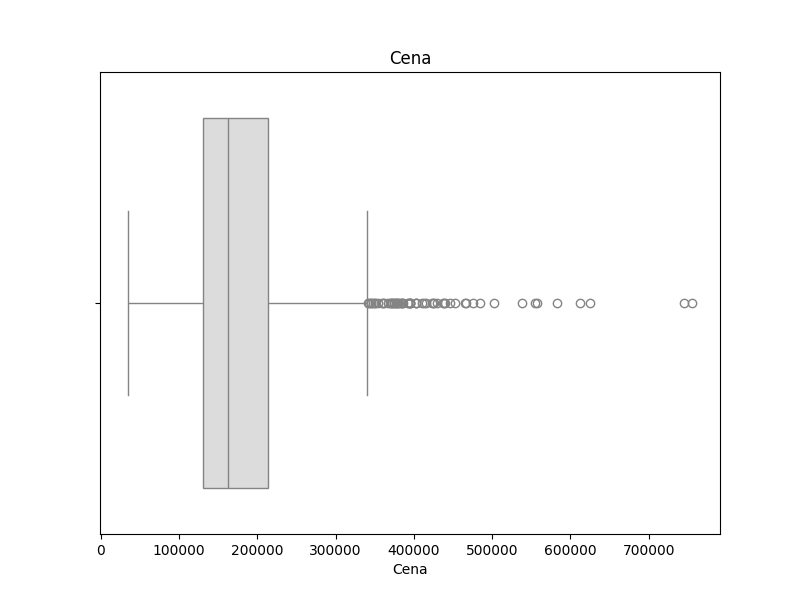
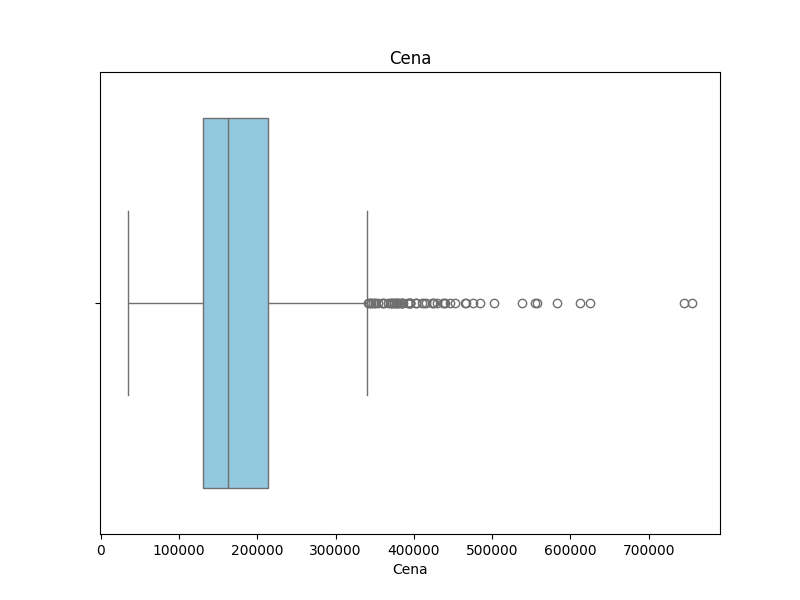
houses plots upgrades

Changed region(s): [[0.25, 0.18, 0.3438, 0.84]]

diff --git a/Scikit-learn 1/houses_1/wykresy.py b/Scikit-learn 1/houses_1/wykresy.py
@@ -4,62 +4,64 @@ from sklearn.impute import SimpleImputer
 import numpy as np
 import seaborn as sns
 import matplotlib.pyplot as plt
-from houses import houses
+from houses import houses_copy, num_features
 
-# # wykres macierzy korelacji
-# plt.figure(figsize=(14,8))
-# sns.heatmap(houses[num_features].corr(), annot=True, cmap="RdBu_r", fmt=" .2f", linewidth=0.5)
-# plt.savefig('wykres_korelacji.png')
-# plt.show()
 
-# # histogram częstości
-# plt.figure(figsize=(8,6))
-# sns.histplot(houses["Cena"], bins=40, kde=True, color="blue")
-# plt.title("Histogram ceny")
-# plt.xlabel("Cena")
-# plt.ylabel("Ilosc domow")
-# plt.savefig("histogram.png")
-# plt.show()
+# wykres macierzy korelacji
+plt.figure(figsize=(14,8))
+sns.heatmap(houses_copy[num_features].corr(), annot=True, cmap="RdBu_r", fmt=" .2f", linewidth=0.5)
+plt.savefig('wykres_korelacji.png')
+plt.show()
 
-# # wykres pudełkowy
-# plt.figure(figsize=(10,6))
-# sns.boxplot(x=houses["Jakosc"], y=houses["Cena"], hue=houses["Jakosc"], palette="coolwarm", legend=False)
-# plt.title("Jakosc vs Cena")
-# plt.xlabel("Jakos")
-# plt.ylabel("Cena")
-# plt.savefig("wykres_pudelkowy.png")
-# plt.show()
+# histogram częstości
+plt.figure(figsize=(8,6))
+sns.histplot(houses_copy["Cena"], bins=40, kde=True, color="blue")
+plt.title("Histogram ceny")
+plt.xlabel("Cena")
+plt.ylabel("Ilosc domow")
+plt.savefig("histogram.png")
+plt.show()
 
-# # wizualizacja zależności między zmiennymi
-# plt.figure(figsize=(8,6))
-# sns.scatterplot(x=houses["Powierzchnia"], y=houses["Cena"], color="purple", alpha=0.6)
-# plt.title("Powierzchnia vs Cena")
-# plt.xlabel("Powierzchnia")
-# plt.ylabel("Cena")
-# plt.savefig("powierzchnia_vs_cena.png")
-# plt.show()
+# wykres pudełkowy
+plt.figure(figsize=(10,6))
+sns.boxplot(x=houses_copy["Jakosc"], y=houses_copy["Cena"], hue=houses_copy["Jakosc"], palette="coolwarm", legend=False)
+plt.title("Jakosc vs Cena")
+plt.xlabel("Jakos")
+plt.ylabel("Cena")
+plt.savefig("wykres_pudelkowy.png")
+plt.show()
 
-# # wykres pudelkowy cena
-# plt.figure(figsize=(8,6))
-# sns.boxplot(x=houses["Cena"], palette="coolwarm")
-# plt.title("Cena")
-# plt.xlabel("Cena")
-# plt.savefig("cena.png")
-# plt.show()
+# wizualizacja zależności między zmiennymi
+plt.figure(figsize=(8,6))
+sns.scatterplot(x=houses_copy["Powierzchnia"], y=houses_copy["Cena"], color="purple", alpha=0.6)
+plt.title("Powierzchnia vs Cena")
+plt.xlabel("Powierzchnia")
+plt.ylabel("Cena")
+plt.savefig("powierzchnia_vs_cena.png")
+plt.show()
 
-# plt.figure(figsize=(12,6))
-# sns.boxplot(x=houses["Sasiedztwo"], y=houses["Cena"], palette="coolwarm")
-# plt.title("Sasiedztwo vs Cena")
-# plt.xlabel("Sasiedztwo")
-# plt.xticks(rotation=90)
-# plt.ylabel("Cena")
-# plt.savefig("sas_vs_cena.png")
-# plt.show()
+# wykres pudelkowy cena
+plt.figure(figsize=(8,6))
+sns.boxplot(x=houses_copy["Cena"], color='skyblue')
+plt.title("Cena")
+plt.xlabel("Cena")
+plt.savefig("cena.png")
+plt.show()
+
+# wykres pudelkowy pokazujacy zaleznosc ceny od sasiedztwa
+plt.figure(figsize=(12,6))
+sns.boxplot(x=houses_copy['Sasiedztwo'], y=houses_copy["Cena"], hue=houses_copy["Sasiedztwo"], palette="coolwarm", legend=False)
+plt.title("Sasiedztwo vs Cena")
+plt.xlabel("Sasiedztwo")
+plt.xticks(rotation=90)
+plt.ylabel("Cena")
+plt.savefig("sas_vs_cena.png")
+plt.show()
 
 # histogram ceny ze zbioru houses po jej logarytmowaniu (żeby zadzialal zakomentowac usuwanie wartosci odstajacych w houses.py)
-houses["Cena"] = np.log(houses["Cena"])
+houses_copy["Cena"] = np.log(houses_copy["Cena"])
 plt.figure(figsize=(8,6))
-sns.histplot(houses["Cena"], bins=40, kde=True, color="blue")
+sns.histplot(houses_copy["Cena"], bins=40, kde=True, color="blue")
 plt.title("Histogram ceny po jej logarytmowaniu")
 plt.xlabel("Logarytmowana cena")
 plt.ylabel("Ilosc domow")

diff --git a/Scikit-learn 1/houses_1/houses.py b/Scikit-learn 1/houses_1/houses.py
@@ -92,17 +92,18 @@ for name, model in models.items():
         coefficients[name] = model.coef_
 
 results_df = pd.DataFrame(metrics)
+print(results_df)
 
 importances = models["XGBoost"].feature_importances_
 
 """Wykres ważności cech"""
-# plt.bar(range(len(importances)), importances)
-# plt.xticks(range(len(importances)), [X_train.columns[i] for i in range(len(importances))], rotation=42, fontsize=6)
-# plt.title("Wykres ważności cech z modelu XGBoost")
-# plt.xlabel('Cechy')
-# plt.ylabel('Importances')
-# plt.savefig('Wykres_cech_xgboost')
-# plt.show()
+plt.bar(range(len(importances)), importances)
+plt.xticks(range(len(importances)), [X_train.columns[i] for i in range(len(importances))], rotation=42, fontsize=6)
+plt.title("Wykres ważności cech z modelu XGBoost")
+plt.xlabel('Cechy')
+plt.ylabel('Importances')
+plt.savefig('Wykres_cech_xgboost')
+plt.show()
 
 
 def plot_model_vs_prediction(ax, model_name, y_true, y_pred):
